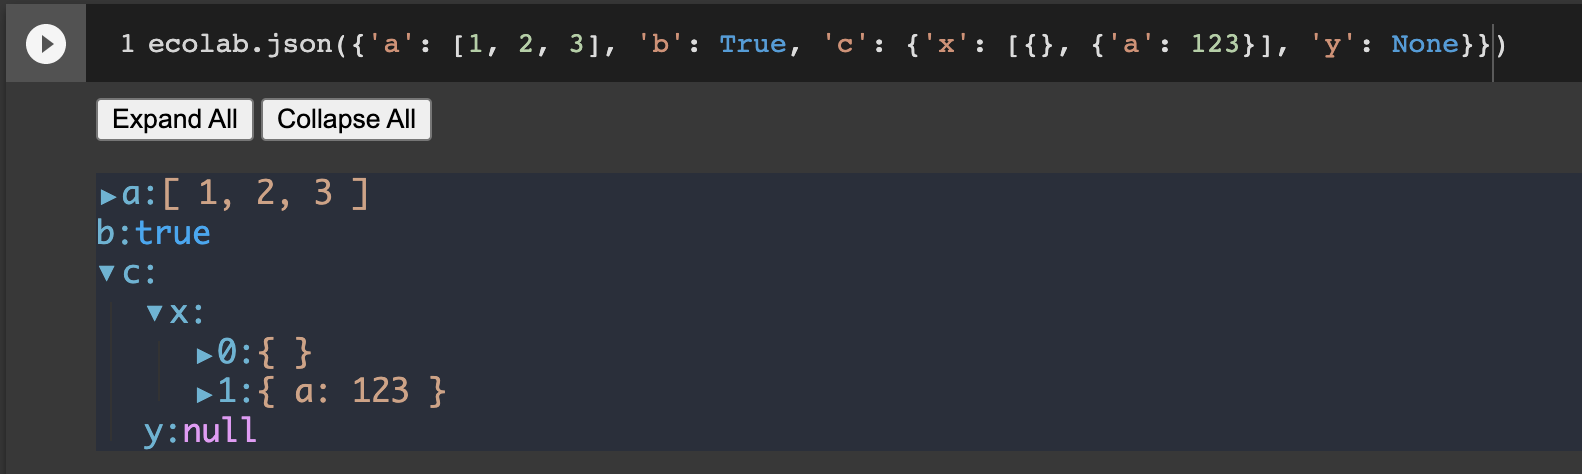
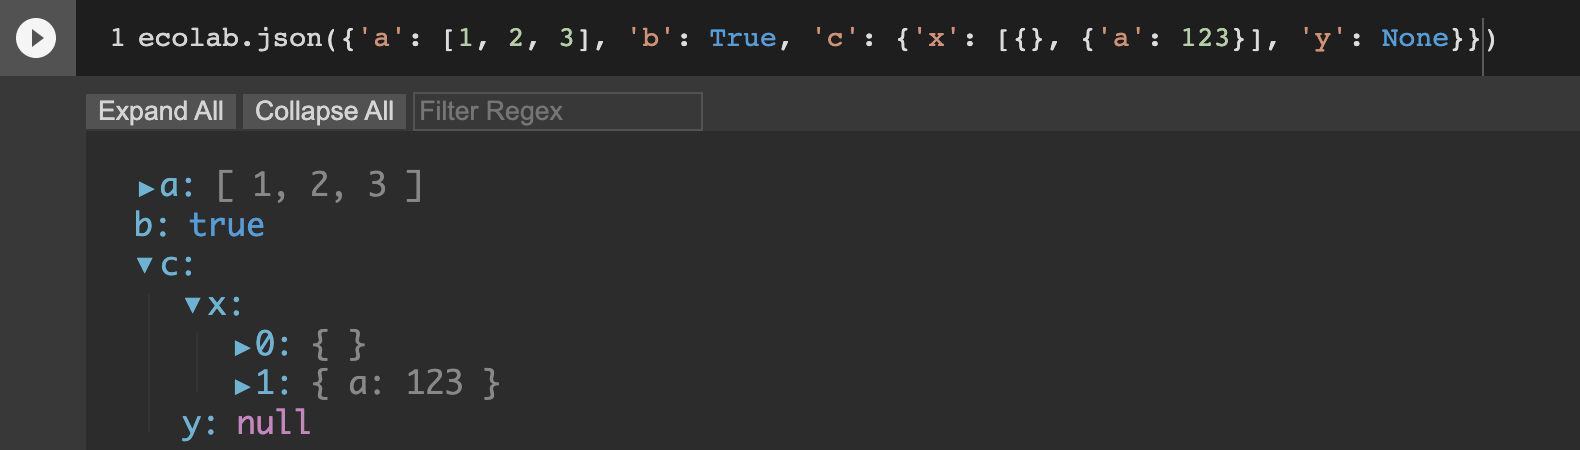
Cleaner css, filter path
PiperOrigin-RevId: 511727054

diff --git a/etils/ecolab/colab_utils.py b/etils/ecolab/colab_utils.py
@@ -75,28 +75,75 @@ def collapse(name: str = '') -> Iterator[None]:
 def json(value: Json) -> None:
   """Display the Json `dict` / `list` interactivelly (with collapsible elems).
 
+  Examples:
+
+  ```python
+  ecolab.json({'a': [1, 2, 3], 'b': {'x': True, 'y': False}})
+  ```
+
+  The dict keys and list indices can be filtered from the display field using
+  regex (e.g. `a.[0-9]` in the above example).
+
   Args:
     value: Json `dict` or `list` to inspect.
   """
   # Unique id to make sure multiple Json display do not interact with each other
   id_ = uuid.uuid1().hex
 
-  html_content = html.escape(json_std.dumps(value))
-  # There are a lot of alternative. Likely the most popular one is
-  # `react-json-view`. However, this one display preview for collapsible
-  # elements, which is nice (and not present in other alternatives).
+  # There are a lot of alternative to `alenaksu/json-viewer`.
+  # Likely the most popular one is `react-json-view`. However, this one
+  # display preview for collapsible elements, which is nice (and not present
+  # in other alternatives).
   # https://github.com/mac-s-g/react-json-view/issues/237
 
-  # TODO(epot): Could also add
-  # `<input placeholder="Search" onkeydown="search(this)"></input>`
-  # but likely not super useful.
+  css_content = """
+  json-viewer {
+    padding:1px 1.5em 1px 1.5em;
+    --background-color: #f7f7f7;
+    --property-color: #087db2;
+    --string-color: #a31515;
+    --number-color: #008000;
+    --boolean-color: #0000ff;
+    --null-color: #af00db;
+    --preview-color: #888888;
+  }
+  json-viewer::part(key) {
+    margin-right: 0.5em;
+  }
+  html[theme=dark] json-viewer {
+    --background-color: #2c2c2c;
+    --property-color: #6fb3d2;
+    --string-color: #ce9178;
+    --number-color: #b5cea8;
+    --boolean-color: #569cd6;
+    --null-color: #c586c0;
+    --preview-color: #888888;
+  }
+  .ecolab-json button {
+      background-color: var(--colab-highlighted-surface-color);
+      color: var(--colab-primary-text-color);
+      border-width: 0;
+  }
+  .ecolab-json input {
+      border-color: var(--colab-highlighted-surface-color);
+  }
+  """
+
+  html_content = html.escape(json_std.dumps(value))
   html_content = f"""
   <script src="https://unpkg.com/@alenaksu/json-viewer@2.0.0/dist/json-viewer.bundle.js"></script>
   <script>
     const viewer{id_} = document.querySelector('#json{id_}');
+    viewer{id_}.expandAll();
   </script>
-  <button onclick="viewer{id_}.expandAll();">Expand All</button>
-  <button onclick="viewer{id_}.collapseAll();">Collapse All</button>
-  <json-viewer id="json{id_}">{html_content}</json-viewer>
+  <style>
+  {css_content}
+  </style>
+  <div class="ecolab-json">
+    <button onclick="viewer{id_}.expandAll();">Expand All</button>
+    <button onclick="viewer{id_}.collapseAll();">Collapse All</button>
+    <input placeholder="Filter Regex" onkeyup="viewer{id_}.filter(RegExp(this.value, 'i'));"></input>
+    <json-viewer id="json{id_}">{html_content}</json-viewer>
+  </div>
   """
   IPython.display.display(IPython.display.HTML(html_content))

diff --git a/etils/ecolab/README.md b/etils/ecolab/README.md
@@ -86,6 +86,9 @@ with collapsible/expandable sections.
 
 ![https://github.com/google/etils/blob/main/etils/ecolab/docs/imgs/json.png](https://github.com/google/etils/blob/main/etils/ecolab/docs/imgs/json.png?raw=true){height="180"}
 
+The dict keys and list indices can be filtered from the display field using
+regex (e.g. `x.[0-9]` in the above example).
+
 ### Others
 
 *   `ecolab.set_verbose()`: Log stderr & `absl.logging` (which are hidden by
